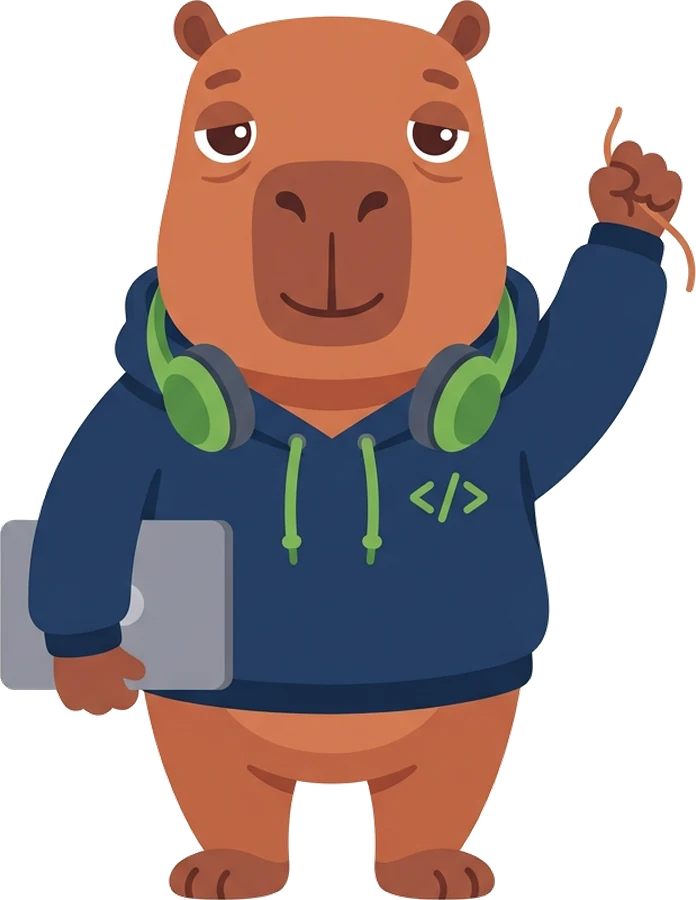
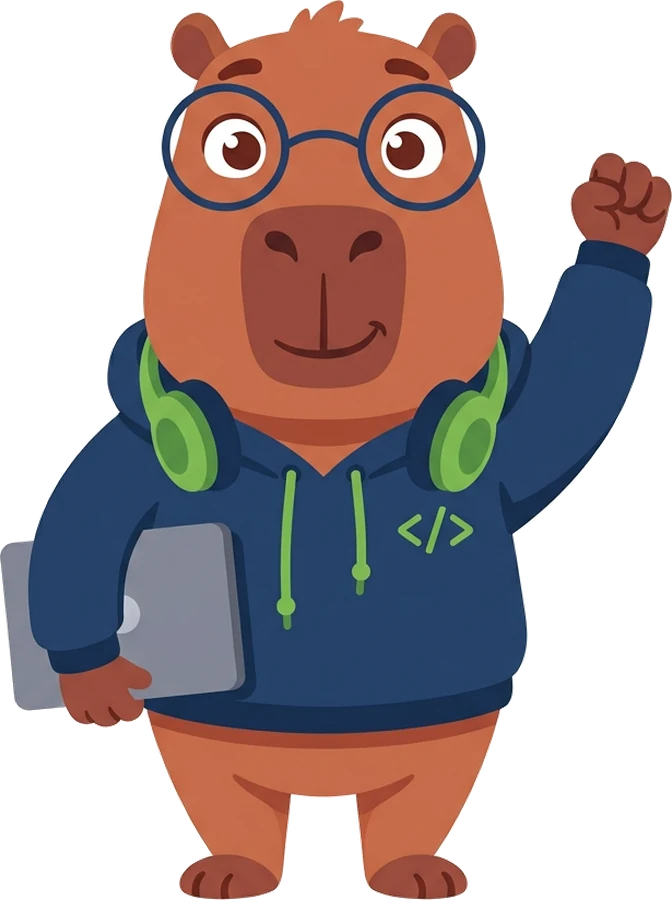
Arch backdrop, floor shadows, one string per hand, a sharper capybara
The curtain gives way to an arched alcove in the page's blue tints with a
green arc. Each character casts its own soft shadow, sized to its stance
and centred under its feet. The strings drawn into the illustrations are
painted out so only the one to the tag remains, and the capybara is
regenerated with round glasses and an alert, clever look.

Changed region(s): [[0.0, 0.0, 1.0, 1.0], [0.2188, 0.8711, 0.375, 1.0], [0.4062, 0.3111, 0.4375, 0.3422]]

diff --git a/index.html b/index.html
@@ -107,7 +107,7 @@
 }
 </script>
 
-<link rel="stylesheet" href="styles.css?v=4247d9d5">
+<link rel="stylesheet" href="styles.css?v=6f52c5cc">
 <script src="app.js?v=8037369b"></script>
 </head>
 <body>
@@ -405,44 +405,45 @@
              holding up the hang tag that says who it was designed for, with the palette and the typeface
              picked for that business. Every change lands with a hop and a
              puff. -->
-        <figure class="offer-art" role="img" aria-label="Cartoon characters stepping out of a fitting room one after another, a doctor, a contractor, a capybara and a lawyer, each holding up a hang tag that reads Designed for a healthcare company, a contractor, a tech company and a law firm, each with its own colour palette and typeface">
+        <figure class="offer-art" role="img" aria-label="Cartoon characters stepping into a fitting room alcove one after another, a doctor, a contractor, a capybara and a lawyer, each holding up a hang tag that reads Designed for a healthcare company, a contractor, a tech company and a law firm, each with its own colour palette and typeface">
           <svg viewBox="0 0 600 420" xmlns="http://www.w3.org/2000/svg" aria-hidden="true" font-family="Plus Jakarta Sans, sans-serif">
-            <!-- the fitting room: a rail and a curtain pulled back -->
+            <!-- the fitting room: an arched alcove in the page's blue tints, a
+                 green arc along one shoulder of it, and the floor line -->
+            <defs>
+              <linearGradient id="ch-arch" x1="0" y1="0" x2="0" y2="1">
+                <stop offset="0" stop-color="#dbe7f5"/><stop offset="1" stop-color="#eef4fa"/>
+              </linearGradient>
+            </defs>
+            <path d="M126 399V172A132 132 0 0 1 390 172V399Z" fill="url(#ch-arch)"/>
+            <path d="M141 399V174A117 117 0 0 1 375 174V399" fill="none" stroke="#fff" stroke-width="3" opacity=".8"/>
+            <path d="M343 71A132 132 0 0 1 390 172" fill="none" stroke="#80c34a" stroke-width="5" stroke-linecap="round"/>
+            <circle cx="112" cy="104" r="5" fill="#80c34a"/><circle cx="104" cy="292" r="4" fill="#1266b5" fill-opacity=".45"/>
             <path d="M40 399H560" stroke="#d5e0ec" stroke-width="2"/>
-            <rect x="40" y="38" width="520" height="6" rx="2" fill="#143c66"/>
-            <g>
-              <rect x="56" y="48" width="100" height="340" rx="2" fill="#80c34a"/>
-              <path d="M81 48v340M106 48v340M131 48v340" stroke="#6fb23c" stroke-width="12"/>
-              <rect x="56" y="378" width="100" height="10" rx="2" fill="#5c9a2e"/>
-              <path d="M62 38v14M87 38v14M112 38v14M137 38v14" stroke="#143c66" stroke-width="3"/>
-            </g>
-            <ellipse cx="292" cy="398" rx="92" ry="8" fill="#143c66" opacity=".1"/>
+            <ellipse class="ch-fit ch-fit--1" cx="258" cy="397" rx="59" ry="8" fill="#143c66" fill-opacity=".14"/>
+            <ellipse class="ch-fit ch-fit--2" cx="258" cy="397" rx="58" ry="8" fill="#143c66" fill-opacity=".14"/>
+            <ellipse class="ch-fit ch-fit--3" cx="258" cy="397" rx="73" ry="8" fill="#143c66" fill-opacity=".14"/>
+            <ellipse class="ch-fit ch-fit--4" cx="258" cy="397" rx="49" ry="8" fill="#143c66" fill-opacity=".14"/>
 
             <g class="ch-hop">
-                <!-- healthcare: a doctor, big curls, an open white coat over
-                     teal scrubs, a stethoscope, a clipboard held to the chest -->
+                <!-- healthcare: a doctor with an afro, a navy coat over blue scrubs, a stethoscope and a clipboard -->
                 <g class="ch-fit ch-fit--1">
-                  <image href="images/tbyb-healthcare.webp" x="176.2" y="68" width="181.9" height="330"/>
-                  <path d="M344.2 150.4Q405.1 136.4 466 180" fill="none" stroke="#143c66" stroke-width="2"/>
+                  <image href="images/tbyb-healthcare.webp" x="176.4" y="68" width="181.9" height="330"/>
+                  <path d="M342.9 137.5Q404.4 121.5 466 180" fill="none" stroke="#143c66" stroke-width="2"/>
                 </g>
-                <!-- a contractor: ginger, freckled, denim overalls over a
-                     rolled-up flannel, a pencil behind the ear, a tape measure,
-                     a hard hat -->
+                <!-- a contractor: hard hat, ginger moustache, green shirt, navy overalls, a tape measure -->
                 <g class="ch-fit ch-fit--2">
-                  <image href="images/tbyb-contractor.webp" x="188.0" y="68" width="162.4" height="330"/>
-                  <path d="M336.5 121.0Q401.2 107.0 466 180" fill="none" stroke="#143c66" stroke-width="2"/>
+                  <image href="images/tbyb-contractor.webp" x="188.2" y="68" width="162.4" height="330"/>
+                  <path d="M336.6 119.6Q401.3 103.6 466 180" fill="none" stroke="#143c66" stroke-width="2"/>
                 </g>
-                <!-- a tech company: a capybara, drawn the way they are loved,
-                     head and body one loaf, tiny ears, a broad flat nose, in a
-                     hoodie with headphones round its neck and a laptop -->
+                <!-- a tech company: a capybara in round glasses and a navy hoodie, headphones round its neck, a laptop -->
                 <g class="ch-fit ch-fit--3">
-                  <image href="images/tbyb-tech.webp" x="148.6" y="68" width="255.2" height="330"/>
-                  <path d="M380.7 129.8Q423.4 115.8 466 180" fill="none" stroke="#143c66" stroke-width="2"/>
+                  <image href="images/tbyb-tech.webp" x="139.8" y="68" width="246.4" height="330"/>
+                  <path d="M371.1 129.1Q418.6 113.1 466 180" fill="none" stroke="#143c66" stroke-width="2"/>
                 </g>
-                <!-- a law firm: a silver bob, gold glasses, pearls, a navy suit and a briefcase -->
+                <!-- a law firm: a silver bob, gold glasses, a navy suit and a briefcase -->
                 <g class="ch-fit ch-fit--4">
                   <image href="images/tbyb-law-firm.webp" x="163.4" y="68" width="218.2" height="330"/>
-                  <path d="M366.9 153.3Q416.4 139.3 466 180" fill="none" stroke="#143c66" stroke-width="2"/>
+                  <path d="M366.5 153.3Q416.3 137.3 466 180" fill="none" stroke="#143c66" stroke-width="2"/>
                 </g>
               <!-- the hang tag; each character brings its own string -->
               <g class="ch-tag" transform="translate(466 174)">

diff --git a/src/body.html b/src/body.html
@@ -292,44 +292,45 @@
              holding up the hang tag that says who it was designed for, with the palette and the typeface
              picked for that business. Every change lands with a hop and a
              puff. -->
-        <figure class="offer-art" role="img" aria-label="Cartoon characters stepping out of a fitting room one after another, a doctor, a contractor, a capybara and a lawyer, each holding up a hang tag that reads Designed for a healthcare company, a contractor, a tech company and a law firm, each with its own colour palette and typeface">
+        <figure class="offer-art" role="img" aria-label="Cartoon characters stepping into a fitting room alcove one after another, a doctor, a contractor, a capybara and a lawyer, each holding up a hang tag that reads Designed for a healthcare company, a contractor, a tech company and a law firm, each with its own colour palette and typeface">
           <svg viewBox="0 0 600 420" xmlns="http://www.w3.org/2000/svg" aria-hidden="true" font-family="Plus Jakarta Sans, sans-serif">
-            <!-- the fitting room: a rail and a curtain pulled back -->
+            <!-- the fitting room: an arched alcove in the page's blue tints, a
+                 green arc along one shoulder of it, and the floor line -->
+            <defs>
+              <linearGradient id="ch-arch" x1="0" y1="0" x2="0" y2="1">
+                <stop offset="0" stop-color="#dbe7f5"/><stop offset="1" stop-color="#eef4fa"/>
+              </linearGradient>
+            </defs>
+            <path d="M126 399V172A132 132 0 0 1 390 172V399Z" fill="url(#ch-arch)"/>
+            <path d="M141 399V174A117 117 0 0 1 375 174V399" fill="none" stroke="#fff" stroke-width="3" opacity=".8"/>
+            <path d="M343 71A132 132 0 0 1 390 172" fill="none" stroke="#80c34a" stroke-width="5" stroke-linecap="round"/>
+            <circle cx="112" cy="104" r="5" fill="#80c34a"/><circle cx="104" cy="292" r="4" fill="#1266b5" fill-opacity=".45"/>
             <path d="M40 399H560" stroke="#d5e0ec" stroke-width="2"/>
-            <rect x="40" y="38" width="520" height="6" rx="2" fill="#143c66"/>
-            <g>
-              <rect x="56" y="48" width="100" height="340" rx="2" fill="#80c34a"/>
-              <path d="M81 48v340M106 48v340M131 48v340" stroke="#6fb23c" stroke-width="12"/>
-              <rect x="56" y="378" width="100" height="10" rx="2" fill="#5c9a2e"/>
-              <path d="M62 38v14M87 38v14M112 38v14M137 38v14" stroke="#143c66" stroke-width="3"/>
-            </g>
-            <ellipse cx="292" cy="398" rx="92" ry="8" fill="#143c66" opacity=".1"/>
+            <ellipse class="ch-fit ch-fit--1" cx="258" cy="397" rx="59" ry="8" fill="#143c66" fill-opacity=".14"/>
+            <ellipse class="ch-fit ch-fit--2" cx="258" cy="397" rx="58" ry="8" fill="#143c66" fill-opacity=".14"/>
+            <ellipse class="ch-fit ch-fit--3" cx="258" cy="397" rx="73" ry="8" fill="#143c66" fill-opacity=".14"/>
+            <ellipse class="ch-fit ch-fit--4" cx="258" cy="397" rx="49" ry="8" fill="#143c66" fill-opacity=".14"/>
 
             <g class="ch-hop">
-                <!-- healthcare: a doctor, big curls, an open white coat over
-                     teal scrubs, a stethoscope, a clipboard held to the chest -->
+                <!-- healthcare: a doctor with an afro, a navy coat over blue scrubs, a stethoscope and a clipboard -->
                 <g class="ch-fit ch-fit--1">
-                  <image href="__ASSET_TBYB_HEALTH__" x="176.2" y="68" width="181.9" height="330"/>
-                  <path d="M344.2 150.4Q405.1 136.4 466 180" fill="none" stroke="#143c66" stroke-width="2"/>
+                  <image href="__ASSET_TBYB_HEALTH__" x="176.4" y="68" width="181.9" height="330"/>
+                  <path d="M342.9 137.5Q404.4 121.5 466 180" fill="none" stroke="#143c66" stroke-width="2"/>
                 </g>
-                <!-- a contractor: ginger, freckled, denim overalls over a
-                     rolled-up flannel, a pencil behind the ear, a tape measure,
-                     a hard hat -->
+                <!-- a contractor: hard hat, ginger moustache, green shirt, navy overalls, a tape measure -->
                 <g class="ch-fit ch-fit--2">
-                  <image href="__ASSET_TBYB_CONTRACT__" x="188.0" y="68" width="162.4" height="330"/>
-                  <path d="M336.5 121.0Q401.2 107.0 466 180" fill="none" stroke="#143c66" stroke-width="2"/>
+                  <image href="__ASSET_TBYB_CONTRACT__" x="188.2" y="68" width="162.4" height="330"/>
+                  <path d="M336.6 119.6Q401.3 103.6 466 180" fill="none" stroke="#143c66" stroke-width="2"/>
                 </g>
-                <!-- a tech company: a capybara, drawn the way they are loved,
-                     head and body one loaf, tiny ears, a broad flat nose, in a
-                     hoodie with headphones round its neck and a laptop -->
+                <!-- a tech company: a capybara in round glasses and a navy hoodie, headphones round its neck, a laptop -->
                 <g class="ch-fit ch-fit--3">
-                  <image href="__ASSET_TBYB_TECH__" x="148.6" y="68" width="255.2" height="330"/>
-                  <path d="M380.7 129.8Q423.4 115.8 466 180" fill="none" stroke="#143c66" stroke-width="2"/>
+                  <image href="__ASSET_TBYB_TECH__" x="139.8" y="68" width="246.4" height="330"/>
+                  <path d="M371.1 129.1Q418.6 113.1 466 180" fill="none" stroke="#143c66" stroke-width="2"/>
                 </g>
-                <!-- a law firm: a silver bob, gold glasses, pearls, a navy suit and a briefcase -->
+                <!-- a law firm: a silver bob, gold glasses, a navy suit and a briefcase -->
                 <g class="ch-fit ch-fit--4">
                   <image href="__ASSET_TBYB_LAW__" x="163.4" y="68" width="218.2" height="330"/>
-                  <path d="M366.9 153.3Q416.4 139.3 466 180" fill="none" stroke="#143c66" stroke-width="2"/>
+                  <path d="M366.5 153.3Q416.3 137.3 466 180" fill="none" stroke="#143c66" stroke-width="2"/>
                 </g>
               <!-- the hang tag; each character brings its own string -->
               <g class="ch-tag" transform="translate(466 174)">

diff --git a/styles.css b/styles.css
@@ -1023,10 +1023,10 @@ a { color: inherit; }
 .ch-fit--1 { opacity: 1; }
 .ch-hop, .ch-puff { transform-box: view-box; }
 .ch-head, .ch-eyes { transform-box: fill-box; }
-.ch-hop  { transform-origin: 292px 398px; }
+.ch-hop  { transform-origin: 258px 398px; }
 .ch-head { transform-origin: 50% 100%; }
 .ch-eyes { transform-origin: center; }
-.ch-puff { transform-origin: 292px 230px; opacity: 0; }
+.ch-puff { transform-origin: 258px 230px; opacity: 0; }
 
 @media (prefers-reduced-motion: no-preference) {
   .ch-fit { animation: ch-fit 12s steps(1, end) infinite; opacity: 0; }

diff --git a/src/css/04-sections.css b/src/css/04-sections.css
@@ -164,10 +164,10 @@
 .ch-fit--1 { opacity: 1; }
 .ch-hop, .ch-puff { transform-box: view-box; }
 .ch-head, .ch-eyes { transform-box: fill-box; }
-.ch-hop  { transform-origin: 292px 398px; }
+.ch-hop  { transform-origin: 258px 398px; }
 .ch-head { transform-origin: 50% 100%; }
 .ch-eyes { transform-origin: center; }
-.ch-puff { transform-origin: 292px 230px; opacity: 0; }
+.ch-puff { transform-origin: 258px 230px; opacity: 0; }
 
 @media (prefers-reduced-motion: no-preference) {
   .ch-fit { animation: ch-fit 12s steps(1, end) infinite; opacity: 0; }
